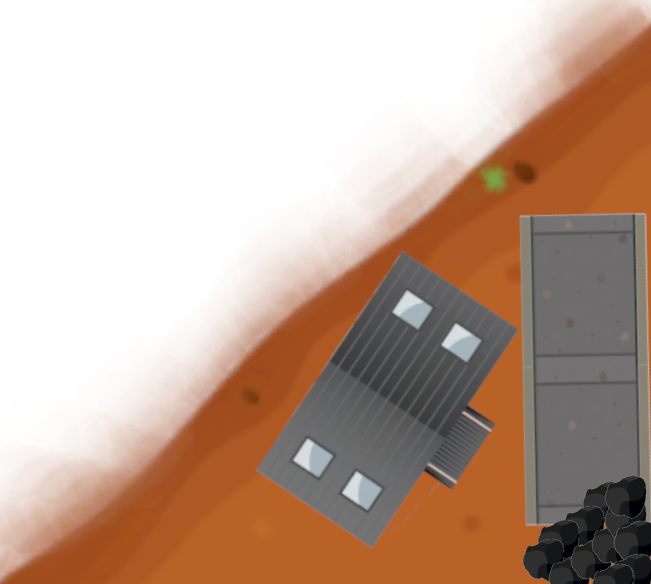
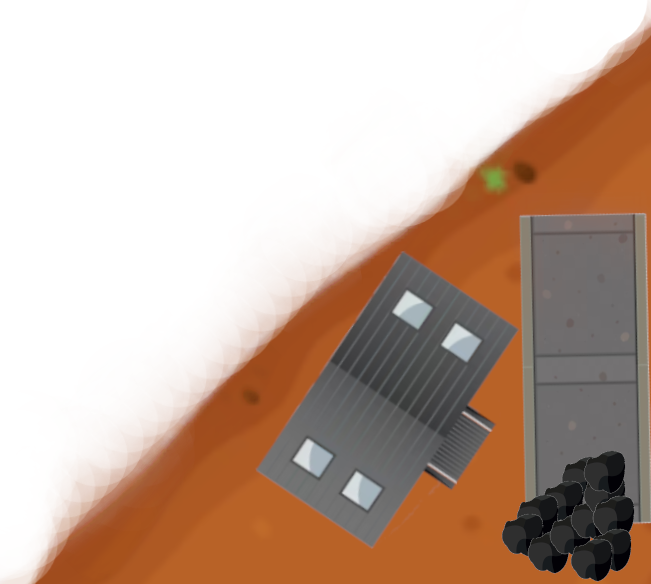
drawQuantityReached

Changed region(s): [[0.0, 0.0, 1.0, 1.0], [0.768, 0.7705, 1.0, 1.0]]

diff --git a/View.py b/View.py
@@ -2,6 +2,10 @@ import pygame
 
 import Settings
 
+
+#♦♦♦♦♦♦♦♦♦♦♦♦♦♦
+#♦  Tankanzeige ♦
+#♦♦♦♦♦♦♦♦♦♦♦♦♦♦
 # Lade Bild
 imageFuelScale = pygame.image.load("scr/img/instrumentsDisplay/tanktachometer.png")
 imageFuelScaleNeedle = pygame.image.load("scr/img/instrumentsDisplay/tanknadel.png")
@@ -45,4 +49,27 @@ def blitRotate(surf, image, pos, originPos, angle):
         pygame.draw.line(surf, (0, 255, 0), (pos[0]-20, pos[1]), (pos[0]+20, pos[1]), 3)
         pygame.draw.line(surf, (0, 255, 0), (pos[0], pos[1]-20), (pos[0], pos[1]+20), 3)
         pygame.draw.circle(surf, (0, 255, 0), pos, 7, 0)
+
+# Ausgebe der Anzeige für abgegebenes Erz
+#♦♦♦♦♦♦♦♦♦♦♦♦♦♦
+#♦  Lademenge  ♦
+#♦♦♦♦♦♦♦♦♦♦♦♦♦♦
+pygame.font.init()
+font = pygame.font.SysFont('Times', 40)
+def drawQuantityReached(abgelademengeLkw:str, abgelademengeHeli:str):
+    strViewQuantityReachedLKW = "Abgeladenes Erz: " + abgelademengeLkw
+    strViewQuantityReachedHeli = "Gestohlenes Erz: " + abgelademengeHeli
+
+    textPoint1 = font.render(strViewQuantityReachedLKW, False, (0,0,0))
+    textPoint2 = font.render(strViewQuantityReachedHeli, False, (0,0,0))
+
+    pos1 = ((Settings.screen.get_width()/2), 20)
+    pos2 = ((Settings.screen.get_width()/2), 60)
+
+    textrec1 = textPoint1.get_rect(center=(pos1))
+    textrec2 = textPoint1.get_rect(center=(pos2))
+
+    Settings.screen.blit(textPoint1, textrec1)
+    Settings.screen.blit(textPoint2, textrec2)
+
 

diff --git a/spielLogik.py b/spielLogik.py
@@ -12,9 +12,16 @@ from Settings import screen
 # Bildschirm Aktualisierungen einstellen
 clock = pygame.time.Clock()
 
+pygame.font.init()
+
+font = pygame.font.SysFont('Gabriola', 80)
 
 
 def spielStart():
+
+
+    # Hintergrund
+    bgImage = pygame.image.load("scr/img/BG.png")
 
     # Orte
     tankstelle = Places.GasStation()
@@ -53,6 +60,9 @@ def spielStart():
                         Settings.debug = True
 
 
+
+        # Zeichne Hintergrundbild
+        Settings.screen.blit(bgImage, (0,0))
         # Orte
         # Tankstelle
         tankstelle.draw()
@@ -98,6 +108,7 @@ def spielStart():
         if helicopterBase.percentOre >= 20:
             gameOver = True
 
+        View.drawQuantityReached(str(lkwZiel.percentOre), str(helicopterBase.percentOre))
 
         # DEBUGGER
         status = []

diff --git a/Places.py b/Places.py
@@ -85,7 +85,7 @@ class truckDestination(Places):
         eventRec = (((position[0] + 500), (position[1] + 200)),(320,300))
 
 
-        self.percentOre = 100
+        self.percentOre = 0
 
         super().__init__(imageLink, position, eventRec)
 
@@ -135,7 +135,7 @@ class helicopterBase(Places):
         position = (Settings.screen.get_width() - 400, 100)
 
 
-        self.percentOre = 100
+        self.percentOre = 0
 
         super().__init__(imageLink, position, (0,0,0,0))
         self.eventRec = pygame.Rect(((position[0] - 150),(position[1]  - 100)), (500,500))

diff --git a/Control.py b/Control.py
@@ -203,11 +203,7 @@ class Control:
             heli.currentPosition[1] = truck.currentPosition[1]
             heli.angle = truck.angle
             heli.steerVehicle()
-            print("test")
-
         else:
-
-
             if heli.currentPosition == truckPos:
                 heli.currentSpeed = 0
                 heli.angle = truck.angle

diff --git a/Settings.py b/Settings.py
@@ -86,18 +86,13 @@ elif difficulty == 3:
 # 3 - Joystick
 # 4 - Folgen
 controllerTruck = 1
-controllerHeli = 2
-
-
-
-
+controllerHeli = 4
 
 # DEBUGGER
 debugInfoColor = (0,255,0)
 debug = True
 
 debugPrints = True
-
 
 def printDebugInfo(*args):
     if debugPrints:
